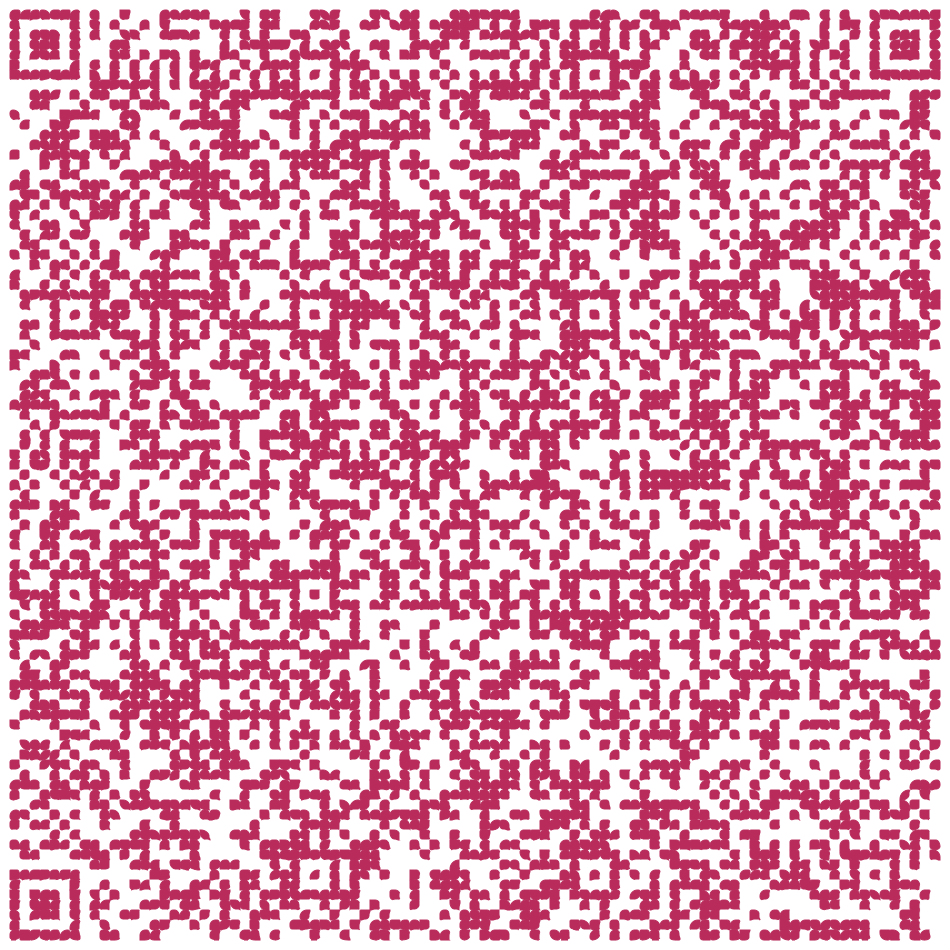
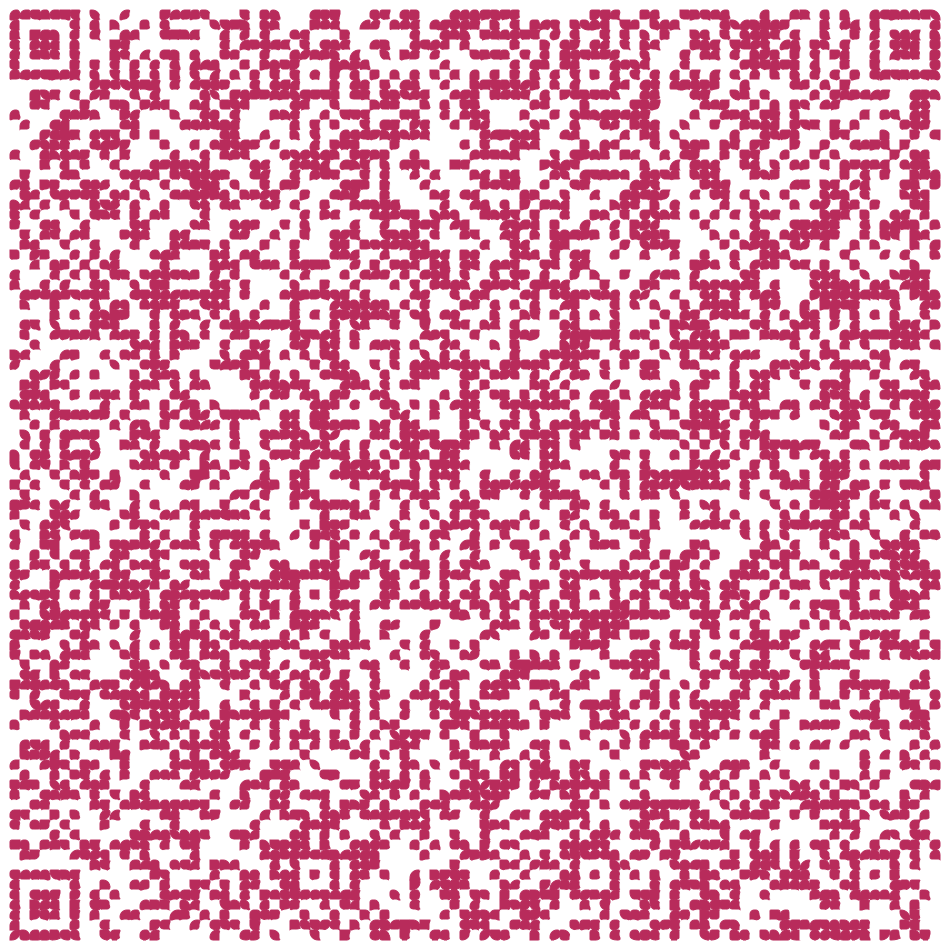
updt

diff --git a/routes/api/QR-code/documentation_v2.html b/routes/api/QR-code/documentation_v2.html
@@ -49,6 +49,8 @@
         if (organisation) params.append('organisation', organisation);
         const fonction = document.getElementById('fonction').value.trim();
         if (fonction) params.append('fonction', fonction);
+        const www = document.getElementById('www').value.trim();
+        if (www) params.append('www', www);
 
 
         params.append('QUAL', document.getElementById('qual').value);
@@ -104,7 +106,8 @@
         <details class="mb-4 bg-white dark:bg-gray-800 p-4 rounded shadow">
           <summary class="font-medium cursor-pointer">🏠 Adresse physique</summary>
           <ul class="list-disc pl-6 mt-2 text-sm">
-            <li><b>site</b>, <b>adresse</b> → champs libres</li>
+            <li><b>site</b> → champs libres désigne le lieu</li>
+            <li><b>adresse</b> → champs libres séparé par de ; rue;ville;code postal</li>
           </ul>
         </details>
 
@@ -164,11 +167,14 @@
             </div>
           <label class="block">Média Info</label>
             <div class="grid grid-cols-12 gap-4 mb-4">
-              <div class="col-span-12 md:col-span-5">
+              <div class="col-span-12 md:col-span-2">
                 <input type="mobile" id="mobile" placeholder="+33612345678" onchange="generateUrl()" class="w-full px-4 py-2 rounded bg-gray-100 dark:bg-gray-700" />
               </div>
-              <div class="col-span-12 md:col-span-7">
+              <div class="col-span-12 md:col-span-5">
                 <input type="email" id="email" placeholder="john.doe@my.com" onchange="generateUrl()" class="w-full px-4 py-2 rounded bg-gray-100 dark:bg-gray-700" />
+              </div>
+              <div class="col-span-12 md:col-span-5">
+                <input type="www" id="www" placeholder="https:/my.com" onchange="generateUrl()" class="w-full px-4 py-2 rounded bg-gray-100 dark:bg-gray-700" />
               </div>
             </div>
           <label class="block">Adresse</label>
@@ -177,7 +183,7 @@
                 <input type="site" id="site" placeholder="Site" onchange="generateUrl()" class="w-full px-4 py-2 rounded bg-gray-100 dark:bg-gray-700" />
               </div>
               <div class="col-span-12 md:col-span-8">
-                <input type="adresse" id="adresse" placeholder="Adresse Postale" onchange="generateUrl()" class="w-full px-4 py-2 rounded bg-gray-100 dark:bg-gray-700" />
+                <input type="adresse" id="adresse" placeholder="Adresse Postal" onchange="generateUrl()" class="w-full px-4 py-2 rounded bg-gray-100 dark:bg-gray-700" />
               </div>
             </div>
 
